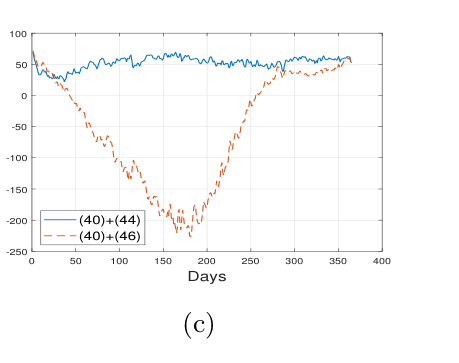
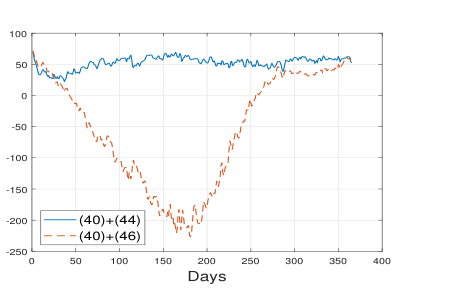
Crop panel label from spatiotemporal research figure

diff --git a/research-spatiotemporal-data.html b/research-spatiotemporal-data.html
@@ -33,7 +33,7 @@ Guangdong, China</p>
 </aside>
 <main id="main">
 <div class="page-heading"><nav class="links" aria-label="Breadcrumb"><a href="research.html">Research</a><span aria-hidden="true">/</span><span>Spatiotemporal data modeling</span></nav><h1>Spatiotemporal data modeling</h1><p>Modeling large datasets that vary across space and time.</p></div>
-<div class="topic-intro"><figure class="research-figure"><a href="https://doi.org/10.1016/j.automatica.2022.110679"><img src="assets/research/spatiotemporal-data.png" alt="Daily temperature prediction fits using spatial-temporal Gaussian process regression." width="459" height="363" loading="lazy"></a></figure></div>
+<div class="topic-intro"><figure class="research-figure"><a href="https://doi.org/10.1016/j.automatica.2022.110679"><img src="assets/research/spatiotemporal-data.png?v=crop-2" alt="Daily temperature prediction fits using spatial-temporal Gaussian process regression." width="459" height="294" loading="lazy"></a></figure></div>
 <section class="section"><h2>Related publications</h2><ol class="rows numbered-list">
 <li><h3><a href="https://doi.org/10.1016/j.automatica.2022.110679">An Efficient Implementation for Spatial-Temporal Gaussian Process Regression and Its Applications</a></h3><p>Junpeng Zhang, Yue Ju, Biqiang Mu, Renxin Zhong, and Tianshi Chen</p><p class="meta">Automatica, vol. 147, pp. 110679, 2023</p></li>
 <li><h3><a href="https://doi.org/10.1016/j.asoc.2021.107663">Bus Arrival Time Prediction and Reliability Analysis: An Experimental Comparison of Functional Data Analysis and Bayesian Support Vector Regression</a></h3><p>Yunping Huang, Can Chen, Zicheng Su, Tianshi Chen, Agachai Sumalee, Tianlui Pan, and Renxin Zhong</p><p class="meta">Applied Soft Computing, vol. 111, pp. 107663, 2021.</p></li>

diff --git a/research.html b/research.html
@@ -59,7 +59,7 @@ Guangdong, China</p>
 </section>
 <section class="section research-topic" id="spatiotemporal-data">
 <h2><a href="research-spatiotemporal-data.html">Spatiotemporal data modeling</a></h2>
-<div class="research-grid"><figure class="research-figure"><a href="https://doi.org/10.1016/j.automatica.2022.110679"><img src="assets/research/spatiotemporal-data.png" alt="Daily temperature prediction fits using spatial-temporal Gaussian process regression." width="459" height="363" loading="lazy"></a></figure><div class="research-description"><p>Modeling large datasets that vary across space and time.</p><p class="research-more"><a href="research-spatiotemporal-data.html">Related publications <span aria-hidden="true">→</span></a></p></div></div>
+<div class="research-grid"><figure class="research-figure"><a href="https://doi.org/10.1016/j.automatica.2022.110679"><img src="assets/research/spatiotemporal-data.png?v=crop-2" alt="Daily temperature prediction fits using spatial-temporal Gaussian process regression." width="459" height="294" loading="lazy"></a></figure><div class="research-description"><p>Modeling large datasets that vary across space and time.</p><p class="research-more"><a href="research-spatiotemporal-data.html">Related publications <span aria-hidden="true">→</span></a></p></div></div>
 </section>
 </main>
 </div>
